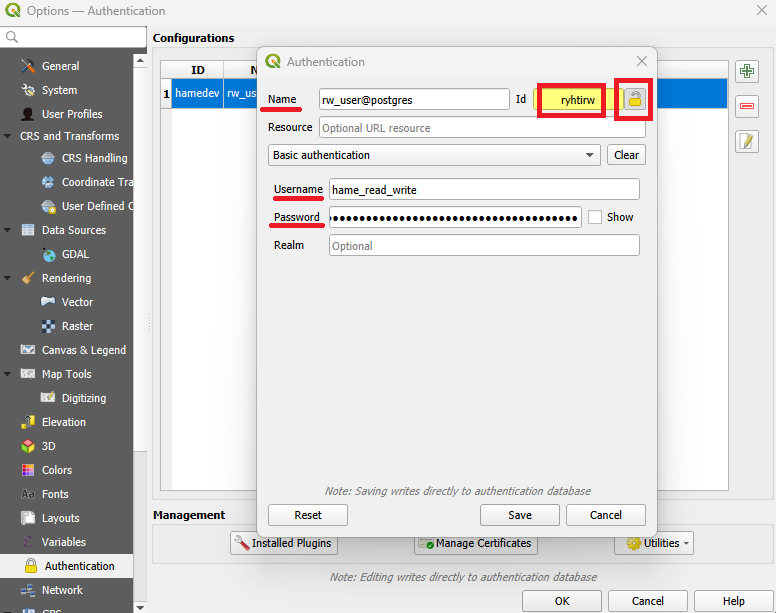
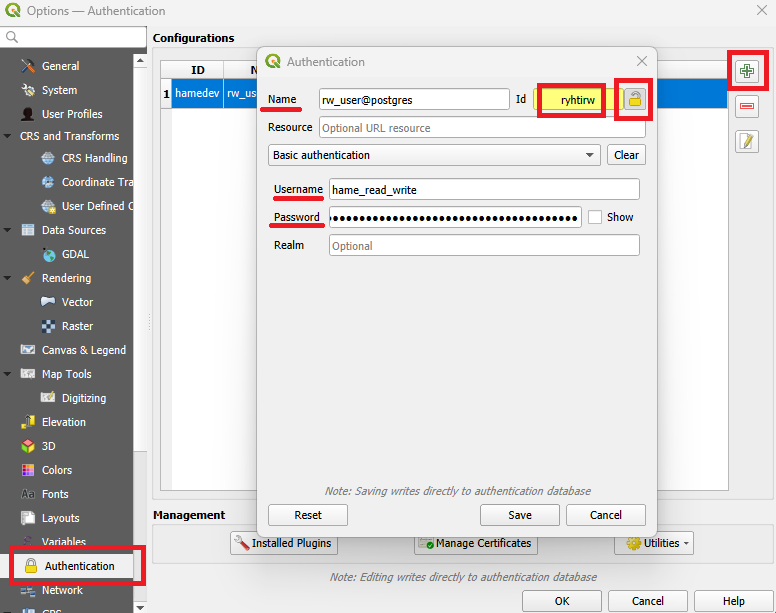
Add more details to instructions

Changed region(s): [[0.0, 0.8679, 0.1856, 0.9608], [0.9278, 0.062, 1.0, 0.155]]

diff --git a/backend/README.md b/backend/README.md
@@ -12,6 +12,10 @@ HAME regional land use planning database compatible with national Ryhti data mod
   - [Database changes](#database-changes)
   - [Adding requirements](#adding-requirements)
 - [Data model](#data-model)
+- [Connecting the database](#connecting-the-database)
+  - [Creating SSH key pairs](#creating-ssh-key-pairs)
+  - [Opening a SSH tunnel to the server](#opening-a-ssh-tunnel-to-the-server)
+  - [Connecting the database from QGIS](#connecting-the-database-from-qgis)
 
 ## Architecture
 
@@ -103,25 +107,31 @@ you have to provide to the database administrator, and the private key in file `
 
 ### Opening a SSH tunnel to the server
 
-Once the administrator has added your public key to the server, you can connect to the database using ssh. You are provided also with the necessary connection parameters (host address, port etc.), that are needed in the following commands. Open the command prompt again
+Once the administrator has added your public key to the server, you can connect to the database using ssh. You are provided also with the necessary connection parameters (host address, port etc.) and credentials, that are needed in the following commands. Open the command prompt again
 (type 'cmd' in the start menu) and in it, run the command:
-- `ssh -N -L 5433:<database server address>:<port number> -i "~/.ssh/<name of the key file>" ec2-tunnel@<host address>`
-- Enter the passphrase for the key (if set) and hit enter.
-- Do not close the command prompt window, otherwise the SSH tunnel is disconnected.
+- `ssh -N -L 5433:<database server address>:<port number> -i "~/.ssh/<name of the private key file>" ec2-tunnel@<host address>`
+- Enter the passphrase for the key (if set) and hit enter. If no error messages appear, the tunnel is connected. Do not close the command prompt window, otherwise the SSH tunnel is disconnected.
 - Now you can connect to the database using `localhost` as the host and `5433` as the port. The details how to do this with
 different software are given in the following sections.
+- Additional tips: the connection can automatically terminate, for example, due to server rebooting or network issues (this is usually accompanied by a message, such as `client_loop: send disconnect: Connection reset`). If this happens, run again the previous command. You can usually access the history of the commands run in terminal window by up/down arrow keys on the keyboard. So pressing "up" key and then "Enter" should do the job. In case you want to close an open SSH tunnel, press `Ctrl+C`.
 
 ### Connecting the database from QGIS
 
 The data is read from a PostgreSQL service named `postgres` with a QGIS authentication which id is `ryhtirw`. Here is a way to set up database connection in QGIS:
 
-1. Create a PostgreSQL service file for each environment (at the moment only development) to some folder for example in `<your home folder>/hameconfig/` (the file can be created, for example, with a text editor). Name the files for example `pg_service_hame_dev.conf`. Add the following with correct values for each environment:
+1. Create a PostgreSQL service file for each environment (at the moment, there is only development environment). The file can be created, for example, with a text editor. Add the following with correct values for each environment:
 ```ini
 [postgres]
 host=localhost
 port=5433
 dbname=hame-dev
 ```
+Save the file to some folder, an example location could be `<your home folder>/hameconfig/`. Name the saved file for example `pg_service_hame_dev.conf` (yes, the suffix '.conf' is part of the file name). Do not save this file as a text file (with a suffix .txt), but instead choose 'All types' from the 'Save as type' dropdown menu.
+
+![screenshot of pgservice file made with notepad](docs/img/pg_servicefile_notepad.png)
+
+NOTE: the Postgres service file for the dev environment is also included in in this repository under the docs folder, so alternatively you can copy the file from the into a convenient location on your computer.
+
 2. Create a QGIS-profile for each environment. Name the profile for example `ryhti-hame-dev`. A new QGIS window will open to this profile, use that in the following.
 
 ![screenshot of new profile menu](docs/img/qgis-new-profile.png)
@@ -136,9 +146,13 @@ dbname=hame-dev
 
 5. Create a authentication key to QGIS which ID is `ryhtirw`.
 
-![screenshot of the authentication dialog](docs/img/qgis-authentication.png)
-
 NOTE: you may be prompted for setting a master password in QGIS, if not set earlier. If so, set master password and make sure to save it to a secure place for yourself.
+
+![setting qgis master password](docs/img/qgis-auth-password.png)
+
+Now you can proceed with the database authentication details. As in step 3, open `Settings > Options` in QGIS and choose `Authentication` on the left panel. Click the green plus sign to add a new authentication configuration and fill in details as in the following image. It is important to use the authentication Id `ryhtirw` and database username and password here.
+
+![screenshot of the authentication dialog](docs/img/qgis-authentication.png)
 
 6. Create a new PostgreSQL connection
 
